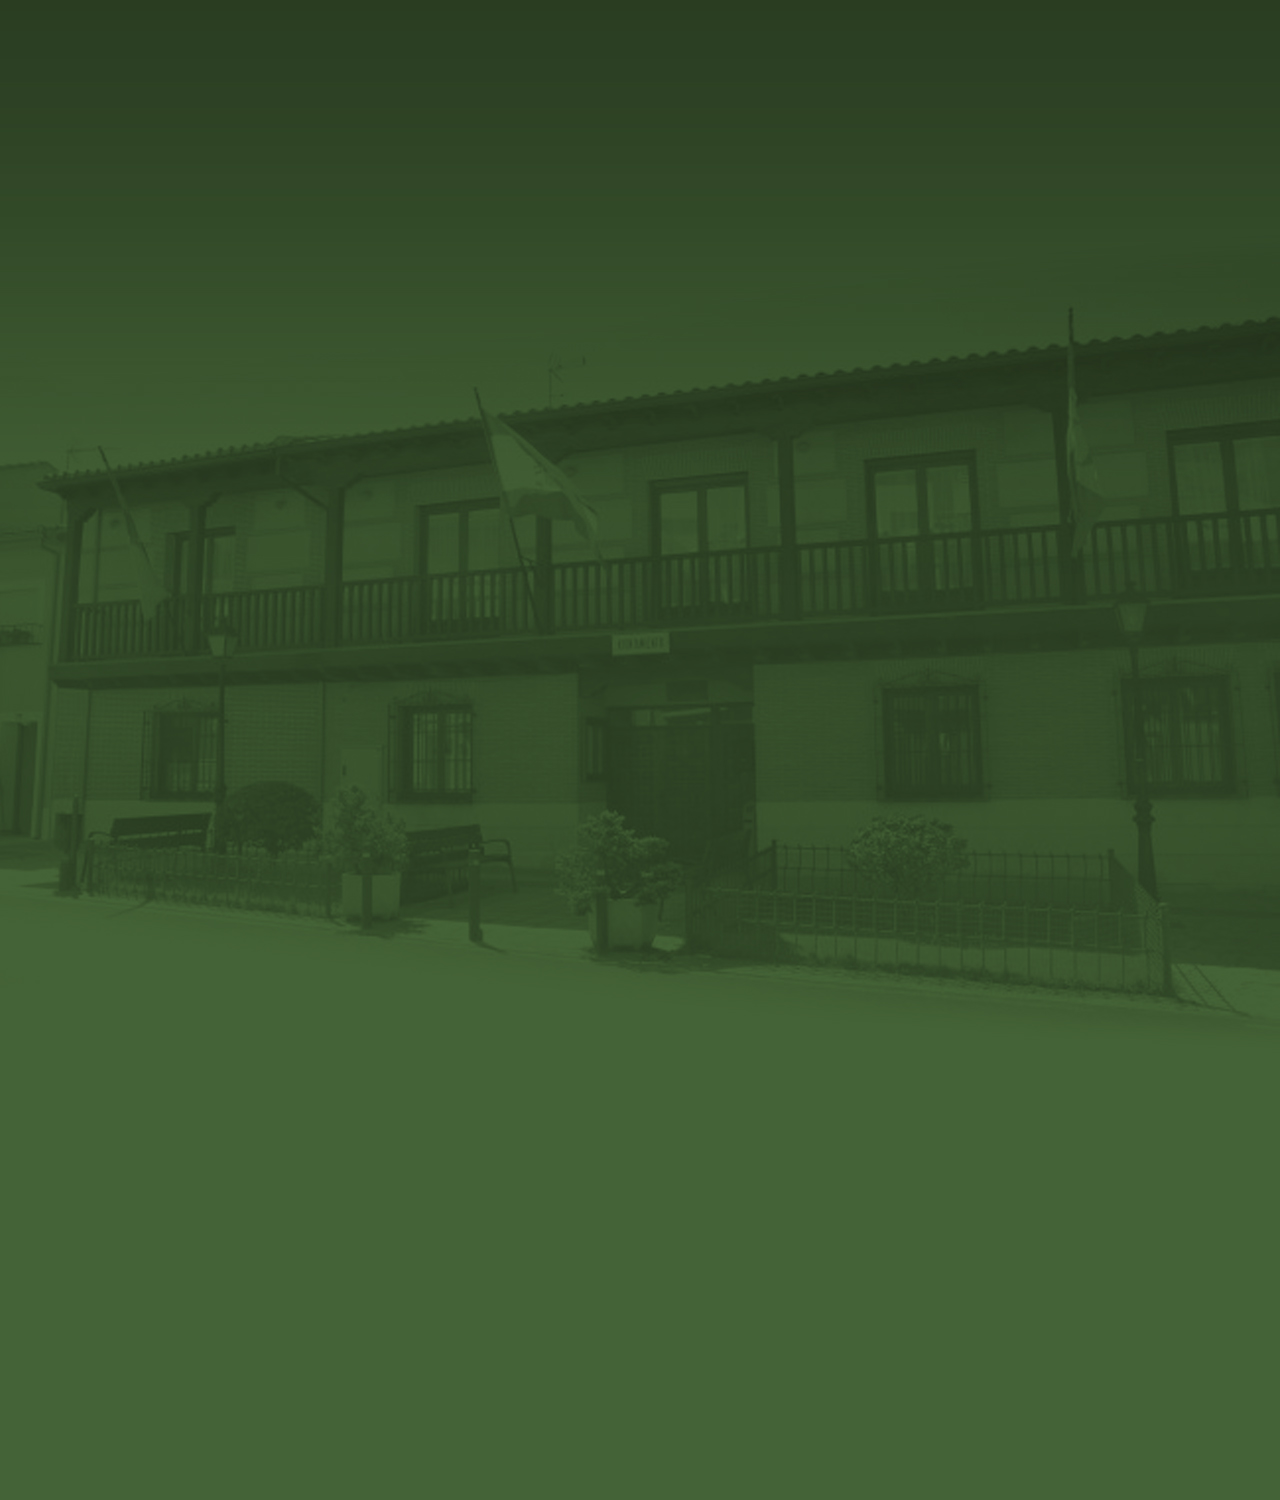
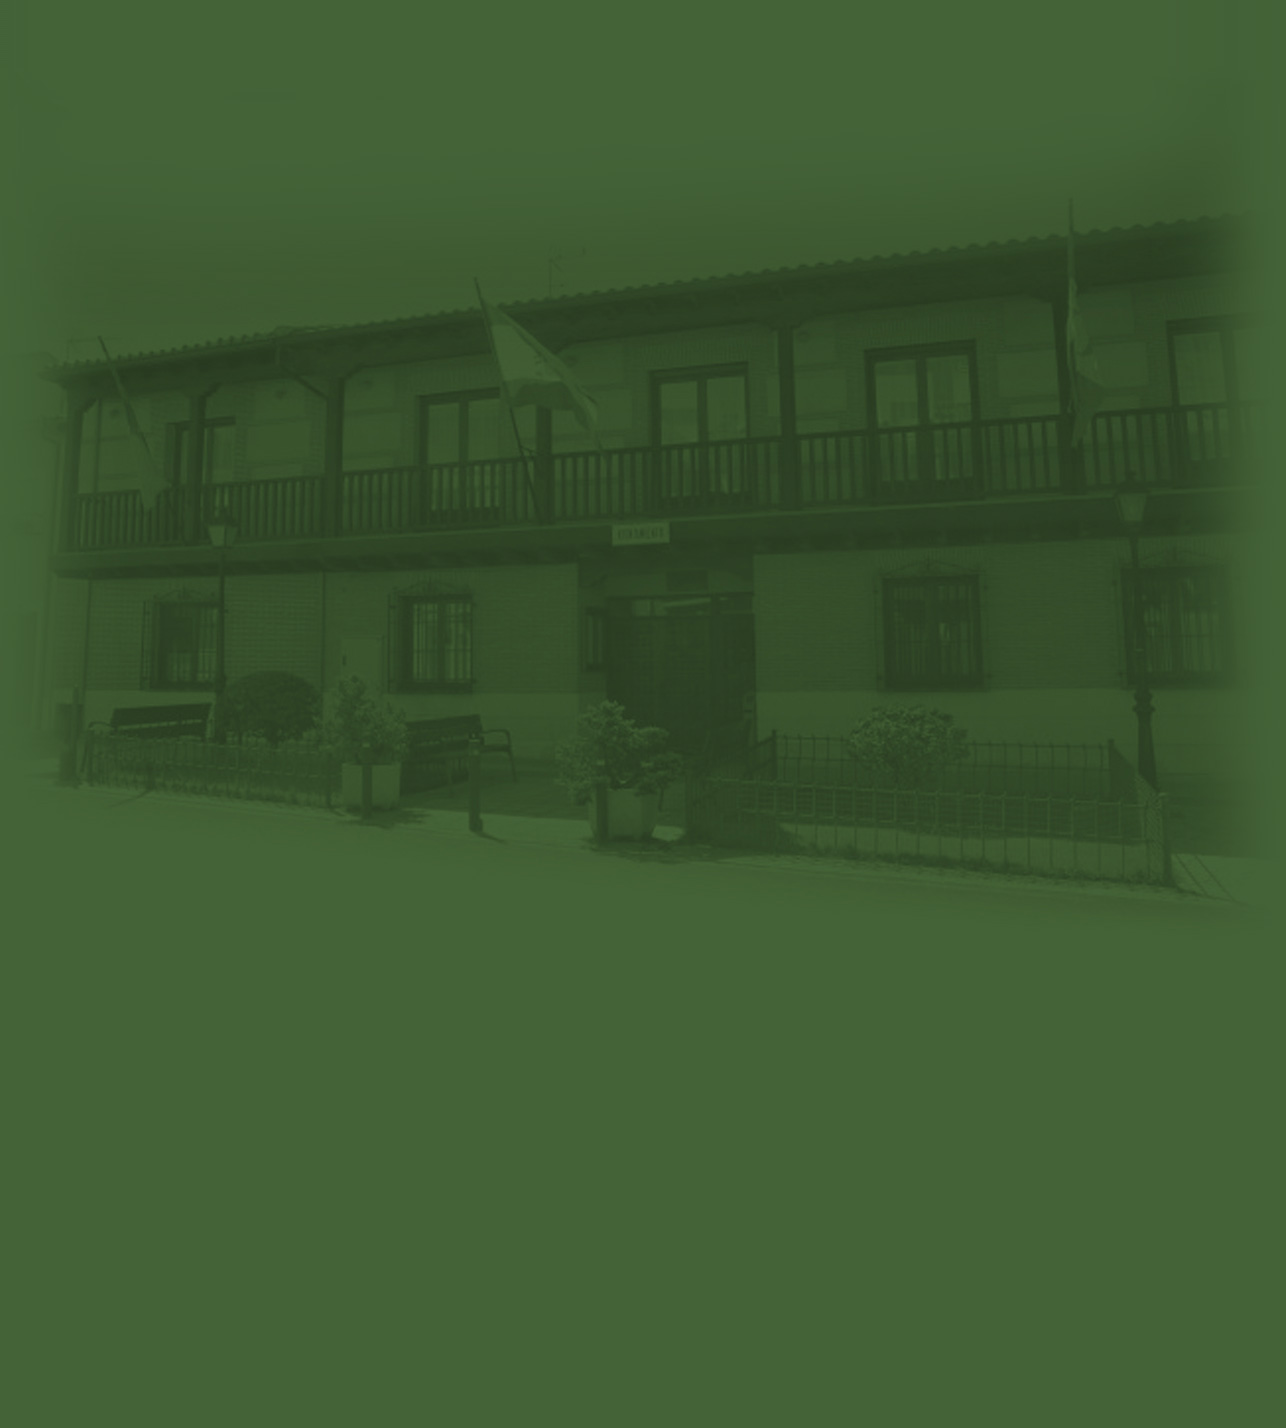
[Resolves #TGi28] CSS improvement on error pages

diff --git a/public/422.html b/public/422.html
@@ -5,7 +5,11 @@
   <meta name="viewport" content="width=device-width,initial-scale=1">
   <style>
   body {
-    background: #065687 url('/errors_bg_chiloeches.jpg');
+    background: #065687 url('/errors_bg_chiloeches.jpg') no-repeat center center fixed;
+    -webkit-background-size: cover;
+    -moz-background-size: cover;
+    -o-background-size: cover;
+    background-size: cover;;
     color: #2E2F30;
     font-family: arial, sans-serif;
     margin: 0;

diff --git a/public/500.html b/public/500.html
@@ -5,7 +5,11 @@
   <meta name="viewport" content="width=device-width,initial-scale=1">
   <style>
   body {
-    background: #065687 url('/errors_bg_chiloeches.jpg');
+    background: #065687 url('/errors_bg_chiloeches.jpg') no-repeat center center fixed;
+    -webkit-background-size: cover;
+    -moz-background-size: cover;
+    -o-background-size: cover;
+    background-size: cover;;
     color: #2E2F30;
     font-family: arial, sans-serif;
     margin: 0;

diff --git a/public/404.html b/public/404.html
@@ -5,7 +5,11 @@
   <meta name="viewport" content="width=device-width,initial-scale=1">
   <style>
   body {
-    background: #065687 url('/errors_bg_chiloeches.jpg');
+    background: #065687 url('/errors_bg_chiloeches.jpg') no-repeat center center fixed;
+    -webkit-background-size: cover;
+    -moz-background-size: cover;
+    -o-background-size: cover;
+    background-size: cover;
     color: #2E2F30;
     font-family: arial, sans-serif;
     margin: 0;
